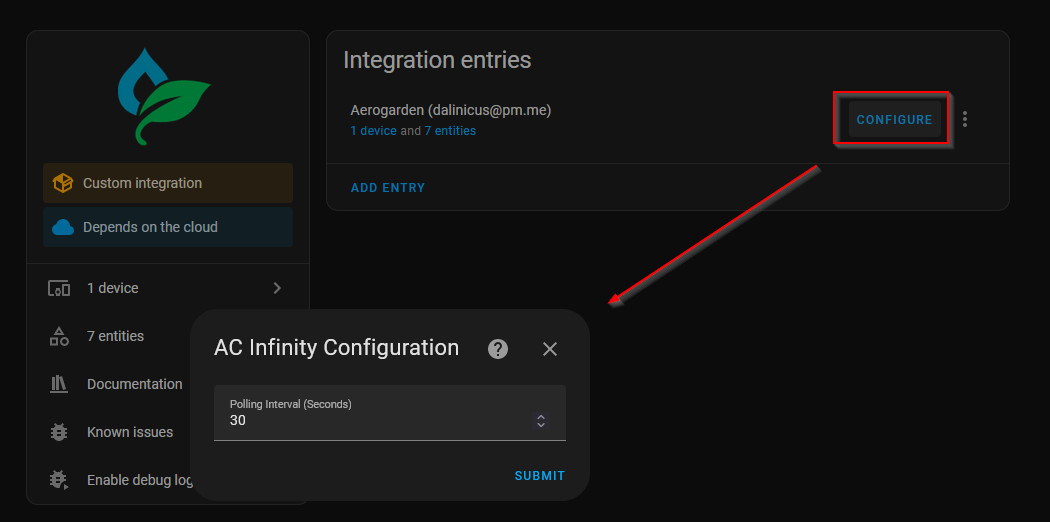
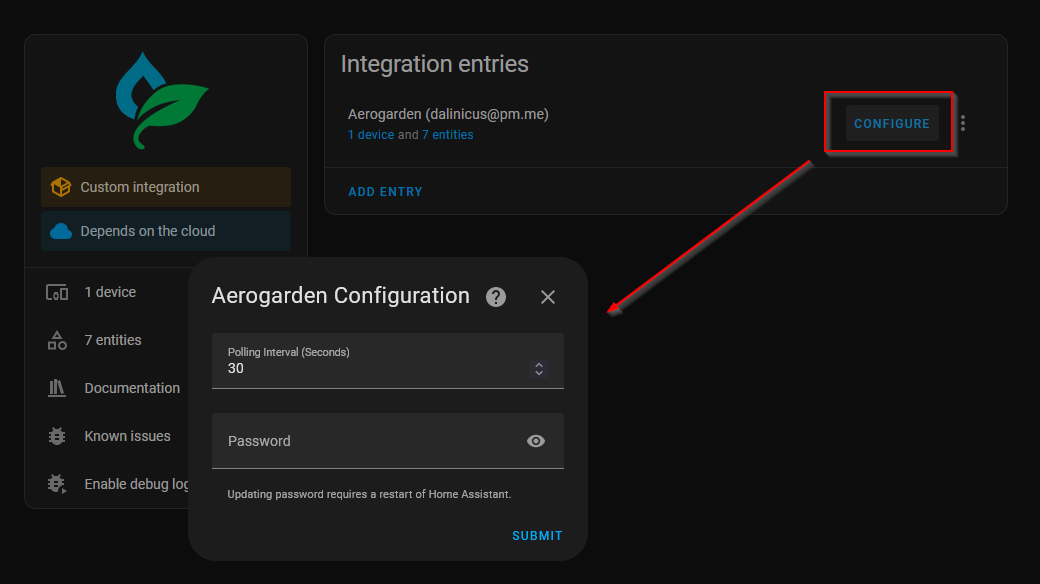
Add ability to change password from options flow

diff --git a/tests/test_config_flow.py b/tests/test_config_flow.py
@@ -1,14 +1,14 @@
 import asyncio
 from asyncio import Future
 from datetime import timedelta
-from unittest.mock import MagicMock
+from unittest.mock import ANY, MagicMock
 
 import pytest
 import voluptuous as vol
 from homeassistant import config_entries
 from homeassistant.config_entries import ConfigEntry
 from homeassistant.const import CONF_EMAIL, CONF_HOST, CONF_PASSWORD
-from homeassistant.core import HomeAssistant
+from homeassistant.core import HomeAssistant, ServiceRegistry
 from pytest_mock import MockFixture
 
 from custom_components.aerogarden import AerogardenDataUpdateCoordinator
@@ -26,6 +26,7 @@ from custom_components.aerogarden.config_flow import (
 )
 from custom_components.aerogarden.const import (
     CONF_POLLING_INTERVAL,
+    CONF_UPDATE_PASSWORD,
     DEFAULT_POLLING_INTERVAL,
     DOMAIN,
 )
@@ -46,12 +47,26 @@ def setup_mocks(mocker: MockFixture):
     aerogarden = Aerogarden(HOST, EMAIL, PASSWORD)
     coordinator = AerogardenDataUpdateCoordinator(hass, aerogarden, 10)
 
-    configEntry = ConfigEntry()
-    configEntry.entry_id = "ac_infinity-myemail@unittest.com"
+    config_entry = ConfigEntry()
+    config_entry.entry_id = "ac_infinity-myemail@unittest.com"
+    config_entry.data = {CONF_EMAIL: "unittest@ha.com"}
 
-    hass.data = {DOMAIN: {configEntry.entry_id: coordinator}}
+    hass.data = {DOMAIN: {config_entry.entry_id: coordinator}}
 
-    return (hass, coordinator, configEntry)
+    update_entry = mocker.patch.object(
+        config_entries.ConfigEntries, "async_update_entry"
+    )
+
+    async_call = mocker.patch.object(ServiceRegistry, "async_call")
+
+    options_flow = OptionsFlow(config_entry)
+    options_flow.hass = hass
+    options_flow.hass.config_entries = MagicMock()
+    options_flow.hass.config_entries.async_update_entry = update_entry
+    options_flow.hass.services = MagicMock()
+    options_flow.hass.services.async_call = async_call
+
+    return (hass, coordinator, config_entry, options_flow)
 
 
 @pytest.fixture
@@ -60,6 +75,7 @@ def setup_options_flow(mocker: MockFixture):
     future.set_result(None)
 
     mocker.patch.object(config_entries.OptionsFlow, "async_show_form")
+    mocker.patch.object(config_entries.OptionsFlow, "async_show_menu")
     mocker.patch.object(config_entries.OptionsFlow, "async_create_entry")
 
     return mocker
@@ -147,22 +163,14 @@ class TestConfigFlow:
         self, mocker: MockFixture, setup_options_flow, user_input, setup_mocks
     ):
         """If provided polling interval is valid, update config and data coordinator with new value"""
-        (hass, coordinator, config_entry) = setup_mocks
+        (hass, coordinator, config_entry, options_flow) = setup_mocks
 
         config_entry.data = {}
-        update_entry = mocker.patch.object(
-            config_entries.ConfigEntries, "async_update_entry"
-        )
 
-        flow = OptionsFlow(config_entry)
-        flow.hass = hass
-        flow.hass.config_entries = MagicMock()
-        flow.hass.config_entries.async_update_entry = update_entry
+        await options_flow.async_step_init({CONF_POLLING_INTERVAL: user_input})
 
-        await flow.async_step_init({CONF_POLLING_INTERVAL: user_input})
-
-        flow.async_show_form.assert_not_called()
-        update_entry.assert_called()
+        options_flow.async_show_form.assert_not_called()
+        options_flow.hass.config_entries.async_update_entry.assert_called()
 
         assert coordinator.update_interval == timedelta(seconds=user_input)
 
@@ -197,7 +205,12 @@ class TestConfigFlow:
         flow.async_show_form.assert_called_with(
             step_id="init",
             data_schema=vol.Schema(
-                {vol.Optional(CONF_POLLING_INTERVAL, default=expected_value): int}
+                {
+                    vol.Optional(
+                        CONF_POLLING_INTERVAL, default=DEFAULT_POLLING_INTERVAL
+                    ): int,
+                    vol.Optional(CONF_UPDATE_PASSWORD): str,
+                }
             ),
             errors={},
         )
@@ -220,24 +233,22 @@ class TestConfigFlow:
                 {
                     vol.Optional(
                         CONF_POLLING_INTERVAL, default=DEFAULT_POLLING_INTERVAL
-                    ): int
+                    ): int,
+                    vol.Optional(CONF_UPDATE_PASSWORD): str,
                 }
             ),
             errors={},
         )
         flow.async_create_entry.assert_not_called()
 
-    @pytest.mark.parametrize("user_input", [0, -5, 4])
-    async def test_options_flow_handler_show_form_with_error(
-        self, mocker: MockFixture, setup_options_flow, user_input
+    @pytest.mark.parametrize("polling_interval", [0, -5, 4])
+    async def test_options_flow_handler_show_form_with_error_polling_interval(
+        self, mocker: MockFixture, setup_options_flow, polling_interval, setup_mocks
     ):
         """If provided polling interval is not valid, show form with error"""
 
-        config_entry = mocker.patch.object(
-            config_entries.ConfigEntry, "data", return_value={}
-        )
-        flow = OptionsFlow(config_entry)
-        await flow.async_step_init({CONF_POLLING_INTERVAL: user_input})
+        (_, _, _, flow) = setup_mocks
+        await flow.async_step_init({CONF_POLLING_INTERVAL: polling_interval})
 
         flow.async_show_form.assert_called_with(
             step_id="init",
@@ -245,9 +256,107 @@ class TestConfigFlow:
                 {
                     vol.Optional(
                         CONF_POLLING_INTERVAL, default=DEFAULT_POLLING_INTERVAL
-                    ): int
+                    ): int,
+                    vol.Optional(CONF_UPDATE_PASSWORD): str,
                 }
             ),
-            errors={"base": "invalid_polling_interval"},
+            errors={CONF_POLLING_INTERVAL: "invalid_polling_interval"},
+        )
+        flow.hass.config_entries.async_update_entry.assert_not_called()
+        flow.async_create_entry.assert_not_called()
+
+    @pytest.mark.parametrize(
+        "error,expected",
+        [
+            (AerogardenApiConnectError, "cannot_connect"),
+            (AerogardenApiAuthError, "invalid_auth"),
+            (AerogardenApiError, "unknown"),
+        ],
+    )
+    async def test_options_flow_handler_show_form_with_error_bad_password(
+        self,
+        mocker: MockFixture,
+        setup_options_flow,
+        setup,
+        setup_mocks,
+        error,
+        expected,
+    ):
+        """If provided polling interval is not valid, show form with error"""
+        setup.patch.object(AerogardenClient, "login", side_effect=error)
+
+        (_, _, _, flow) = setup_mocks
+
+        await flow.async_step_init({CONF_UPDATE_PASSWORD: "hunter2"})
+
+        flow.async_show_form.assert_called_with(
+            step_id="init",
+            data_schema=vol.Schema(
+                {
+                    vol.Optional(
+                        CONF_POLLING_INTERVAL, default=DEFAULT_POLLING_INTERVAL
+                    ): int,
+                    vol.Optional(CONF_UPDATE_PASSWORD): str,
+                }
+            ),
+            errors={CONF_UPDATE_PASSWORD: expected},
+        )
+        flow.hass.config_entries.async_update_entry.assert_not_called()
+        flow.async_create_entry.assert_not_called()
+
+    async def test_options_flow_handler_update_password_restart_dialog_shown(
+        self, mocker: MockFixture, setup_options_flow, setup, setup_mocks
+    ):
+        """If provided password is not valid, show form with error"""
+
+        flow: OptionsFlow
+        (_, _, _, flow) = setup_mocks
+
+        await flow.async_step_init({CONF_UPDATE_PASSWORD: "hunter2"})
+
+        flow.async_show_menu.assert_called_with(
+            step_id="notify_restart", menu_options=["restart_yes", "restart_no"]
         )
         flow.async_create_entry.assert_not_called()
+
+    async def test_options_flow_handler_update_values_set_on_config(
+        self, mocker: MockFixture, setup_options_flow, setup, setup_mocks
+    ):
+        """Values provided should be updated via hass"""
+
+        flow: OptionsFlow
+        (_, _, _, flow) = setup_mocks
+
+        await flow.async_step_init(
+            {CONF_POLLING_INTERVAL: 10, CONF_UPDATE_PASSWORD: "hunter2"}
+        )
+
+        flow.hass.config_entries.async_update_entry.assert_called_with(
+            ANY,
+            data={
+                CONF_EMAIL: "unittest@ha.com",
+                CONF_POLLING_INTERVAL: 10,
+                CONF_PASSWORD: "hunter2",
+            },
+        )
+        flow.async_create_entry.assert_not_called()
+
+    async def test_restart_yes_sends_restart_signal(
+        self, mocker: MockFixture, setup_options_flow, setup, setup_mocks
+    ):
+        """The signal for restarting home assistant is called when user selects Restart Now"""
+        flow: OptionsFlow
+        (_, _, _, flow) = setup_mocks
+
+        await flow.async_step_restart_yes(None)
+        flow.hass.services.async_call.assert_called_with("homeassistant", "restart")
+
+    async def test_restart_no_does_not_send_restart_signal(
+        self, mocker: MockFixture, setup_options_flow, setup, setup_mocks
+    ):
+        """The signal for restarting home assistant is called when user selects Restart Later"""
+        flow: OptionsFlow
+        (_, _, _, flow) = setup_mocks
+
+        await flow.async_step_restart_no(None)
+        flow.hass.services.async_call.assert_not_called()

diff --git a/custom_components/aerogarden/config_flow.py b/custom_components/aerogarden/config_flow.py
@@ -14,7 +14,13 @@ from homeassistant.data_entry_flow import FlowResult
 from custom_components.aerogarden import AerogardenDataUpdateCoordinator
 
 from .client import AerogardenApiAuthError, AerogardenApiConnectError, AerogardenClient
-from .const import CONF_POLLING_INTERVAL, DEFAULT_POLLING_INTERVAL, DOMAIN, HOST
+from .const import (
+    CONF_POLLING_INTERVAL,
+    CONF_UPDATE_PASSWORD,
+    DEFAULT_POLLING_INTERVAL,
+    DOMAIN,
+    HOST,
+)
 
 _LOGGER = logging.getLogger(__name__)
 
@@ -86,12 +92,37 @@ class OptionsFlow(config_entries.OptionsFlow):
 
         errors: dict[str, str] = {}
         if user_input is not None:
-            polling_interval = user_input[CONF_POLLING_INTERVAL]
+            polling_interval = user_input.get(
+                CONF_POLLING_INTERVAL, DEFAULT_POLLING_INTERVAL
+            )
+            password = user_input.get(CONF_UPDATE_PASSWORD, None)
+
             if polling_interval < 5:
-                errors["base"] = "invalid_polling_interval"
-            else:
+                errors[CONF_POLLING_INTERVAL] = "invalid_polling_interval"
+
+            if password:
+                email = self.config_entry.data[CONF_EMAIL]
+                try:
+                    client = AerogardenClient(
+                        HOST,
+                        email,
+                        password,
+                    )
+                    await client.login()
+                    _ = await client.get_user_devices()
+                except AerogardenApiConnectError:
+                    errors[CONF_UPDATE_PASSWORD] = "cannot_connect"
+                except AerogardenApiAuthError:
+                    errors[CONF_UPDATE_PASSWORD] = "invalid_auth"
+                except Exception:  # pylint: disable=broad-except
+                    _LOGGER.exception("Unexpected exception")
+                    errors[CONF_UPDATE_PASSWORD] = "unknown"
+
+            if not len(errors):
                 new_data = self.config_entry.data.copy()
                 new_data[CONF_POLLING_INTERVAL] = polling_interval
+                new_data[CONF_PASSWORD] = password
+
                 self.hass.config_entries.async_update_entry(
                     self.config_entry,
                     data=new_data,
@@ -103,6 +134,8 @@ class OptionsFlow(config_entries.OptionsFlow):
                 coordinator.update_interval = timedelta(seconds=polling_interval)
 
                 _LOGGER.info("Polling Interval changed to %s seconds", polling_interval)
+                if password:
+                    return await self.async_step_notify_restart()
                 return self.async_create_entry(title="", data={})
 
         cur_value = (
@@ -114,7 +147,22 @@ class OptionsFlow(config_entries.OptionsFlow):
         return self.async_show_form(
             step_id="init",
             data_schema=vol.Schema(
-                {vol.Optional(CONF_POLLING_INTERVAL, default=cur_value): int}
+                {
+                    vol.Optional(CONF_POLLING_INTERVAL, default=cur_value): int,
+                    vol.Optional(CONF_UPDATE_PASSWORD): str,
+                }
             ),
             errors=errors,
         )
+
+    async def async_step_notify_restart(self):
+        return self.async_show_menu(
+            step_id="notify_restart", menu_options=["restart_yes", "restart_no"]
+        )
+
+    async def async_step_restart_yes(self, _):
+        await self.hass.services.async_call("homeassistant", "restart")
+        return self.async_create_entry(title="", data={})
+
+    async def async_step_restart_no(self, _):
+        return self.async_create_entry(title="", data={})

diff --git a/custom_components/aerogarden/const.py b/custom_components/aerogarden/const.py
@@ -6,7 +6,10 @@ DOMAIN = "aerogarden"
 PLATFORMS = [Platform.SENSOR, Platform.BINARY_SENSOR]
 USER_AGENT_VERSION = "1.0.0"
 HOST = "https://app3.aerogarden.com:8443"
+
 CONF_POLLING_INTERVAL = "polling_interval"
+CONF_UPDATE_PASSWORD = "update_password"
+
 DEFAULT_POLLING_INTERVAL = 30
 
 GARDEN_KEY_USER_ID = "userID"

diff --git a/README.md b/README.md
@@ -57,7 +57,7 @@ Copy `custom_components/aerogarden` into your Home Assistant `$HA_HOME/config` d
 
 Add an integration entry as normal from integration section of the home assistant settings.  You'll need the following configuration items
 
-* **Email**: The e-mail registered with your AC Infinity account.
+* **Email**: The e-mail registered with your Aerogarden account.
 * **Password**: The password for this account.
 
 ![Initial-Setup](/images/initial-setup.png)
@@ -66,7 +66,8 @@ Add an integration entry as normal from integration section of the home assistan
 
 After adding an integration entry, the following additional configurations can be modified via the configuration options dialog.
 
-* **Polling Interval (Seconds)**: The time between update calls to the AC Infinity API.  Minimum allowed polling interval is 30 seconds.
+* **Polling Interval (Seconds)**: The time between update calls to the Aerogarden API.  Minimum allowed polling interval is 30 seconds.
+* **Update Password**: When provided, updates the password used to connect to your Aerogarden account.  Requires Home Assistant restart.
 
 ![Additional-Configuration](/images/additional-configuration.png)
 
